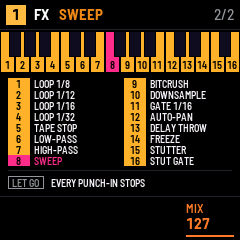
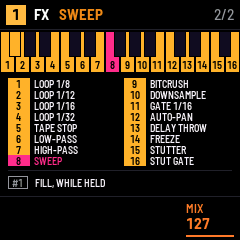
COND FILL and !FILL: with FX held, black key 1 held plays the FILL steps instead of the !FILL ones

Changed region(s): [[0.0292, 0.7292, 0.6125, 0.7875], [0.0292, 0.1167, 0.0875, 0.2333]]

diff --git a/app/ui.c b/app/ui.c
@@ -24,7 +24,7 @@ enum { P_ENGINE, P_SOUND, P_STEPS, P_TEMPO, P_SCALE, P_CPU, P_XY, P_TRACKS, P_SO
    note starts LIVE */
 enum { R_OFF, R_GRID, R_NOTES, R_LIVE, R_ARM, R_LISTEN };   /* LISTEN: a MIMIC pattern learns from the keyboard */
 enum { A_VEL, A_RATCHET, A_PROB, A_COND, A_SLIDE, A_ACCENT, A_NOTE, A_LEN, A_MICRO, A_N };
-#define COND_N 40                    /* NONE, FIRST, !FIRST, PRE, !PRE, then A:B for B = 2..8, A = 1..B */
+#define COND_N 42                    /* NONE, FIRST, !FIRST, PRE, !PRE, FILL, !FILL, then A:B for B = 2..8, A = 1..B */
 
 static const uint8_t DOMAIN_PAGES[ND][5] = {{P_ENGINE, P_SOUND}, {P_STEPS, P_XY}, {P_TEMPO, P_SCALE, P_KEYS, P_GFX, P_CPU}, {P_TRACKS, P_SONG},
                                                 {P_ADSR, P_FILTER}, {P_LFO}, {P_ARP}, {P_MIX, P_INSERT}};
@@ -71,7 +71,7 @@ static const q_page PAGE[] = {
     {"FX", {"DLY TIME", "DLY FB", "REV SIZE", "REV TONE"}, {0, 0, 0, 0}, {DIV_N - 1, 127, 127, 127}},
     {"KEYS", {"IN SCALE"}, {0}, {KEYS_ALL}},
     {"STEP", {"NOTE", "LEN", "VEL", "PROB"}, {1, 1, 1, 0}, {127, 64, 127, 20}},
-    {"STEP", {"RATCHET", "COND", "MICRO"}, {1, 0, -11}, {4, 39, 11}},      /* COND: its index, COND_N - 1 at most */
+    {"STEP", {"RATCHET", "COND", "MICRO"}, {1, 0, -11}, {4, 41, 11}},      /* COND: its index, COND_N - 1 at most */
     {"STEP", {"SLIDE", "ACCENT"}, {0, 0}, {1, 1}},
     {"LOOM", {"DIV", "NOTE", "TRIG LEN", "SOURCE"}, {0, 1, 1, 0}, {DIV_N - 1, 127, 16, SRC_N - 1}},
     {"LENS", {"NOTE LEN", "OCT LEN", "DUR LEN", "VEL LEN"}, {1, 1, 1, 1}, {16, 16, 16, 16}},
@@ -161,7 +161,7 @@ static const uint8_t ATTR_ROW[A_N] = {A_RATCHET, A_VEL, A_PROB, A_COND, A_NOTE, 
 static const uint8_t FAMILY[11][2] = {{A_RATCHET, X}, {A_VEL, X}, {A_PROB, A_COND}, {A_NOTE, X}, {A_LEN, A_MICRO}, {A_SLIDE, X},
                                       {A_ACCENT, X}, {X, X}, {X, X}, {X, X}, {X, X}};
 #undef X
-static const char *const COND_NAME[5] = {"NONE", "FIRST", "!FIRST", "PRE", "!PRE"};
+static const char *const COND_NAME[CD_NFILL + 1] = {"NONE", "FIRST", "!FIRST", "PRE", "!PRE", "FILL", "!FILL"};
 static const uint8_t WHITE[16] = PLAT_WHITE_KEYS;
 static const uint8_t BLACK[11] = PLAT_BLACK_KEYS;
 static const uint16_t KCOL[4] = {RGB(58, 109, 255), RGB(34, 213, 142), RGB(240, 240, 250), RGB(255, 122, 46)};
@@ -210,6 +210,7 @@ static struct {
     int pad, padheld;                          /* a KIT: its last pad played 0..15; the held pad's key + 1, 0 none */
     int homedown, savedown, seldown, msg_scene;   /* msg_scene: 1..8 asked */
     int fxdown, msg_punch;                     /* msg_punch: the punch-in last pressed 1..16, shown until punch_until */
+    int fill;                                  /* FX held, black key 1 held: FILL (audio_fill) */
     uint16_t punch;                            /* the punch-ins held under FX, bit k = white key k + 1 */
     uint8_t last_note[Q_TRACKS];               /* a step switched on by hand takes it */
     int8_t key_note[NKEYS], key_track[NKEYS];  /* what each held key sounds, for its note-off; -1 none */
@@ -889,9 +890,9 @@ static void button(int b)
 static int cond_value(int i)
 {
     int b = 2;
-    if (i < 5)
+    if (i <= CD_NFILL)
         return i;
-    for (i -= 5; i >= b; b++)
+    for (i -= CD_NFILL + 1; i >= b; b++)
         i -= b;
     return (i + 1) | b << 4;
 }
@@ -1704,7 +1705,9 @@ static void key_down(int k)
         home_key(w);
         return;
     }
-    if (ui.fxdown) {                    /* FX held: the white keys are the punch-ins, the black ones nothing */
+    if (ui.fxdown) {                    /* FX held: the white keys are the punch-ins, black key 1 FILL */
+        if (k == BLACK[0])
+            audio_fill(ui.fill = 1);
         if (w < 16) {
             ui.punch |= (uint16_t)(1u << w);
             audio_punch(ui.punch);
@@ -1952,6 +1955,8 @@ static void key_up(int k)
         ui.punch &= (uint16_t)~(1u << w);
         audio_punch(ui.punch);
     }
+    if (k == BLACK[0] && ui.fill)
+        audio_fill(ui.fill = 0);
     if (ui.cell && k == ui.cell_key) {  /* a tap: the cell's value steps up, back to 0 past its top (TRIG toggles) */
         if (!ui.cell_edited && plat_ms() - ui.cell_ms <= HOLD_MS && pat()->src == SRC_LANES) {   /* a long hold: its help */
             q_lanes *l = &pat()->lanes;
@@ -2020,6 +2025,8 @@ void ui_input(void)
         ui.punch = 0;
         audio_punch(0);
     }
+    if (!ui.fxdown && ui.fill)          /* and FILL */
+        audio_fill(ui.fill = 0);
     if ((btn & ~ui.btn) || (keys & ~ui.keys))  /* a press: the buttons already held have served */
         ui.used |= ui.btn & btn;
     ui.used &= ~(btn & ~ui.btn);
@@ -2240,6 +2247,8 @@ static uint32_t layer_keys(int b)
     case B_SEQ:
         for (i = 0; i < (b == B_FX ? 16 : 8); i++)
             keys |= 1u << WHITE[i];
+        if (b == B_FX)                  /* FX: and FILL */
+            keys |= 1u << BLACK[0];
         if (b == B_SEQ)                 /* SEQ: and the copies */
             keys |= 1u << BLACK[0] | 1u << BLACK[1] | 1u << BLACK[2] | 1u << BLACK[3];
         return b == B_SAVE ? keys | 1u << BLACK[0] : keys;   /* SAVE: and the new project */
@@ -2609,7 +2618,7 @@ static void attr_text(const q_step *s, int a, char *b)
         *b++ = '%', *b = 0;
         break;
     case A_COND:
-        if (s->cond < 5) {
+        if (s->cond <= CD_NFILL) {
             const char *n = COND_NAME[s->cond];
             while ((*b++ = *n++) != 0) {}
         } else {
@@ -3046,7 +3055,7 @@ static void draw_layer(const q_view *v, int32_t oy)
             int_text(i + 1, tb[i]);
             tags[n] = tb[i], names[n++] = PUNCH_NAME[i];
         }
-        combo[0][0] = "LET GO", combo[0][1] = "EVERY PUNCH-IN STOPS";
+        combo[0][0] = "#1", combo[0][1] = "FILL, WHILE HELD";   /* (one line fits: FX let go stops all, the manual says) */
         break;
     case B_SAVE:
     case B_SEQ:
@@ -3905,6 +3914,7 @@ int ui_expect(const char *what, int *got)
     else if (!strcmp(what, "playpat")) *got = audio_pattern(ui.track) + 1;
     else if (!strcmp(what, "locks")) *got = t->nlocks;
     else if (!strcmp(what, "punch")) *got = ui.punch;
+    else if (!strcmp(what, "fill")) *got = ui.fill;
     else if (!strcmp(what, "msg_locks_full")) *got = plat_ms() < ui.locks_until;
     else if (!strcmp(what, "dirty")) *got = ui.dirty;
     else if (!strcmp(what, "msg_stop_to_save")) *got = plat_ms() < ui.msg_until;

diff --git a/app/audio.c b/app/audio.c
@@ -72,6 +72,7 @@ static uint8_t fxl_mask[Q_TRACKS], fxl_step[Q_TRACKS], fxl_seen[Q_TRACKS];
 static int fxl_pos[Q_TRACKS];
 static int duck_at;                 /* the block's first KIT BD note-on, -1 none */
 static volatile uint16_t punch_held;  /* audio_punch's: the main loop writes, the render reads */
+static volatile uint8_t fill_held;    /* audio_fill's, the same way */
 static uint16_t punch_last;         /* the last block's punch-ins */
 static float punch_free;            /* stopped: the bar's position since the punch-ins began, or since the STOP */
 static float clk_c, clk_s, clk_cw, clk_sw, clk_env;   /* the click: a phasor turning by (clk_cw, clk_sw) a frame */
@@ -189,6 +190,7 @@ int audio_notes(int track, uint32_t *seen, uint8_t *out, uint32_t *in_ms, int ma
     return n;
 }
 void audio_punch(uint16_t mask) { punch_held = mask; }
+void audio_fill(int on) { fill_held = (uint8_t)(on != 0); }
 int audio_pattern(int track) { return seq_pattern(&seq, track); }
 int audio_song_entry(void) { return seq_song_entry(&seq); }
 void audio_rec(int on) { recording = on; }
@@ -874,6 +876,7 @@ void app_render(int32_t *lr, uint32_t n, uint32_t master_q12)
     punch_last = punch;
     duck_at = -1;
     seq_click(&seq, recording && (prj->click & 1));
+    seq.fill = fill_held;
     ne = ncmd + seq_block(&seq, prj, n, ev + ncmd, EV_MAX);
     int ni = ne;
     for (int i = ncmd; i < ni; i++)   /* by date: the last note-on's step wins */

diff --git a/app/project.h b/app/project.h
@@ -19,7 +19,7 @@ enum { DIV_32, DIV_16T, DIV_16, DIV_8T, DIV_8, DIV_4T, DIV_4, DIV_2, DIV_1, DIV_
 enum { SF_ON = 1, SF_SLIDE = 2, SF_ACCENT = 4 };          /* q_step.flags; bits 3-4: ratchet - 1; bits 5-7: STRUM */
 #define SF_STRUM(s) ((s)->flags >> 5 & 7)                  /* a generator's step: its notes 1/24 step apart, lowest first */
 #define STEP_RATCHET(s) ((((s)->flags >> 3) & 3) + 1)
-enum { CD_NONE, CD_FIRST, CD_NFIRST, CD_PRE, CD_NPRE };   /* q_step.cond < 16; else A:B: A = cond & 15, B = cond >> 4 */
+enum { CD_NONE, CD_FIRST, CD_NFIRST, CD_PRE, CD_NPRE, CD_FILL, CD_NFILL };   /* q_step.cond < 16; else A:B: A = cond & 15, B = cond >> 4 */
 enum { LK_HARM, LK_TIMB, LK_MORPH, LK_DECAY, LK_TUNE, LK_GLIDE,
        LK_ATK, LK_DEC, LK_SUS, LK_REL, LK_FTYPE, LK_CUT, LK_RES, LK_ENVAMT,
        LK_SHAPE, LK_RATE, LK_DEPTH, LK_DEST, LK_AMODE, LK_AOCT, LK_ADIV, LK_AGATE,

diff --git a/app/audio.h b/app/audio.h
@@ -34,6 +34,7 @@ q_load audio_load(void);                                /* the cores' load over 
  * app_ui_init when it is refused, a reboot when committed) and before plat_restart (a reboot): app_ui_init unmutes */
 void audio_mute(void);
 void audio_unmute(void);
+void audio_fill(int on);                                 /* FILL held: the steps with COND FILL play, !FILL not */
 void audio_punch(uint16_t mask);                        /* the punch-ins held, bit k = white key k + 1: from the next block on */
 int audio_playing(void);
 /* a LIFE pattern's run as the render left it (a copy read while it may write: one frame off at worst) */

diff --git a/app/seq.h b/app/seq.h
@@ -37,6 +37,7 @@ typedef struct {
     uint32_t rng;
     uint64_t now;                   /* absolute frame of the next block */
     int mute, seen_mute;            /* the mutes played; p->mute last seen: a change applies at once */
+    int fill;                       /* FILL held (audio_fill): the FILL steps play, the !FILL ones not */
     int launch, lentry, bar;        /* scene pending, -1 none; its song entry, -1 by hand; its bar, -1 the next */
     int entry, started;             /* the song entry playing, -1 none; the scene launched + 1, 0 none */
     q_clock beat;

diff --git a/app/seq.c b/app/seq.c
@@ -420,6 +420,8 @@ static int decide(q_seq *s, q_seq_track *tr, const q_step *st)
         own = 0;
     } else if (c == CD_FIRST || c == CD_NFIRST) {
         ok = (tr->loops == 0) == (c == CD_FIRST);
+    } else if (c == CD_FILL || c == CD_NFILL) {
+        ok = s->fill == (c == CD_FILL);
     } else if (b >= 2 && b <= 8 && a >= 1 && a <= b) {
         ok = tr->loops % b == a - 1;
     } else {                            /* NONE, or a byte out of range: no condition */

diff --git a/app/docs/MANUAL.md b/app/docs/MANUAL.md
@@ -107,7 +107,7 @@ screen.
 | ENV | The envelope and the filter: ADSR, FILTER. | — |
 | LFO | The LFO. | — |
 | ARP | The arpeggiator. | The notes you press stay in the arpeggio after you let go (latch). |
-| FX | The track's effects: MIX, INSERT. | The white keys are the 16 punch-ins. |
+| FX | The track's effects: MIX, INSERT. | The white keys are the 16 punch-ins; black key 1 is FILL. |
 | SEQ | The pattern: STEPS, then its source's pages. | White keys 1–8 pick the track's pattern; black keys 1–4 copy and paste. |
 | GLO | The project: TEMPO, SCALE, KEYS, FX, CPU. | Black key 1 taps the tempo (section 10). |
 | HOME | The four tracks and the song: TRACKS, SONG. | White keys 1–4 mute the tracks, 9–16 are the scenes. |
@@ -422,6 +422,10 @@ be held together. Its name shows in the header; let go of FX and they all stop.
 
 While recording LIVE on a STEP pattern, the punch-ins you hold are written on the steps they cross ([LIVE](sequencer.html#live)), and
 play back with the pattern.
+
+Black key 1, with FX held, is FILL: while you hold it, the steps whose COND is FILL play and those with !FILL don't, on
+every track ([COND](sequencer.html#step-functions)). Let go of the key or of FX and the pattern plays as written again.
+FILL is not recorded.
 
 ![FX held with key 8 pressed: the 16 punch-ins named, SWEEP in pink](img/shape-punch.png "FX held: the punch-ins")
 

diff --git a/app/docs/sequencer.md b/app/docs/sequencer.md
@@ -112,6 +112,8 @@ COND decides on which loops the step plays, before PROB:
 | !FIRST | On every loop but the first. |
 | PRE | If the last step with a condition or a PROB on this track played. |
 | !PRE | If it did not. |
+| FILL | Only while FILL is held: FX held and black key 1 held. |
+| !FILL | Except while FILL is held. |
 | A:B | On loop A of every B: 1:2 every other loop from the first, 2:4 the second loop of four… B goes from 2 to 8. |
 
 For example: hold a step, press black key 3 for PROB, press it again for COND, turn PRESET to 1:2.
@@ -257,6 +259,6 @@ with a step, a selection or a cell held, where the knobs set those; on HOME. A d
 
 **Inspired by** Elektron's sequencers ([Digitakt manual](https://www.elektron.se/support-downloads/digitakt)):
 the 16 keys as the steps, parameter locks, trig conditions (A:B, 1ST, PRE and their negations) and micro timing.
-QUARTZ's COND has no FILL or NEI, and its PROB is a function of its own beside COND. The gestures around the
+QUARTZ's COND has no NEI, and its PROB is a function of its own beside COND. The gestures around the
 clipboard (paste the last note, cut to move, hold to hear) and SEL as a shift come from the
 [OP-Z](https://teenage.engineering/guides/op-z).
